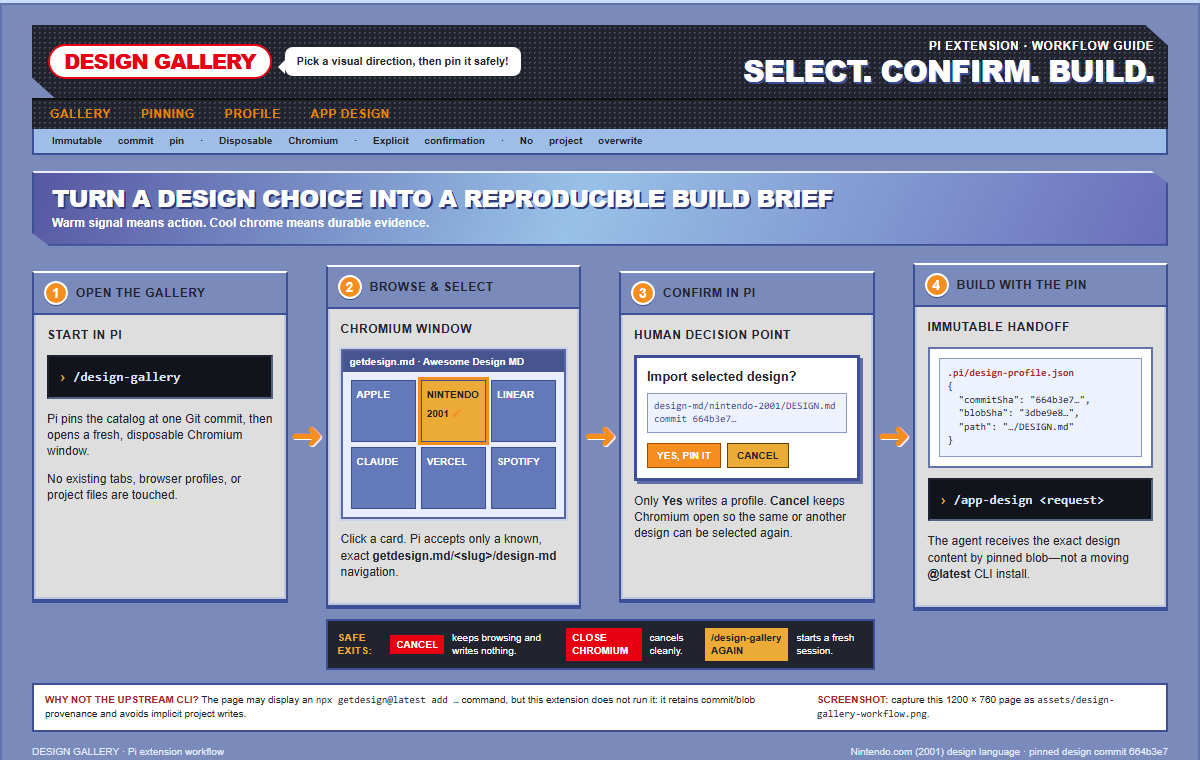
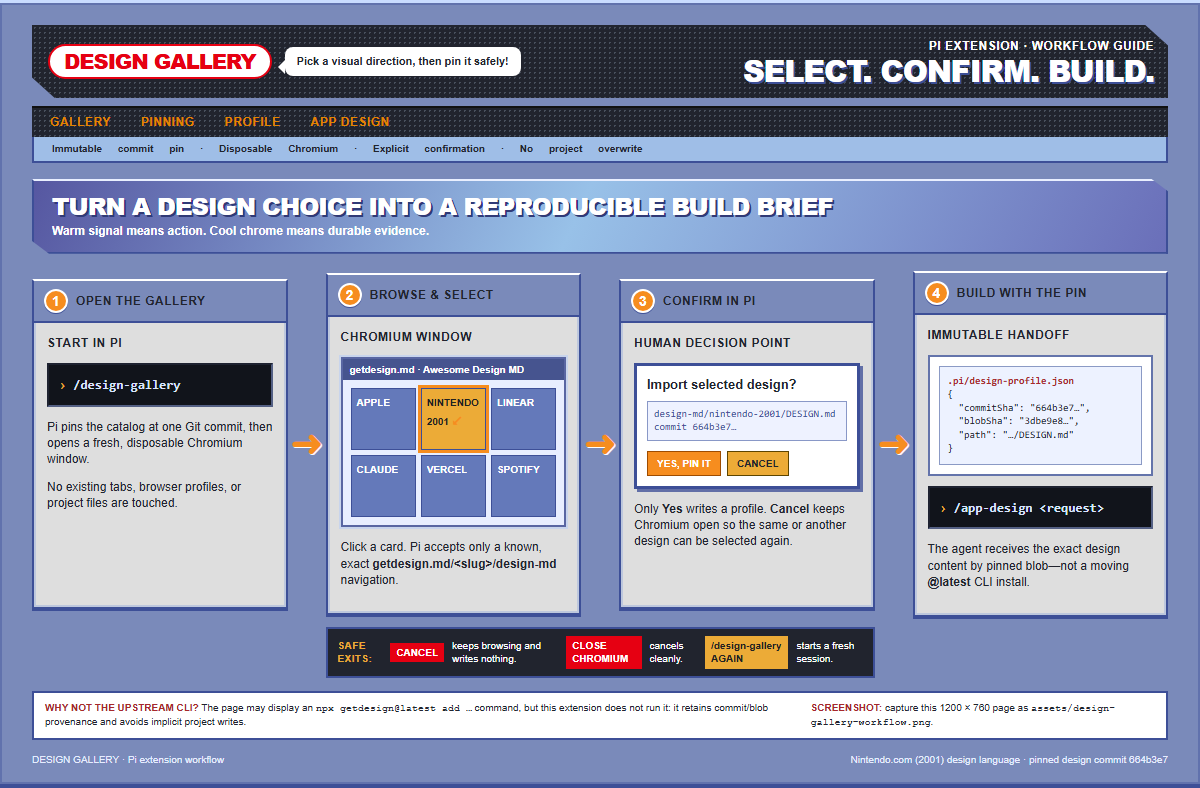
Space design gallery workflow navigation

Changed region(s): [[0.0, 0.3329, 1.0, 1.0], [0.0308, 0.0303, 0.9867, 0.3026], [0.4933, 0.3329, 0.74, 0.7263]]

diff --git a/extensions/design-gallery/assets/design-gallery-workflow.html b/extensions/design-gallery/assets/design-gallery-workflow.html
@@ -19,7 +19,7 @@
   .title { text-align:right; }
   .eyebrow, .step-label, .nav { font-weight:bold; letter-spacing:.55px; text-transform:uppercase; }
   .title h1 { margin:1px 0 0; color:#fff; font:900 30px/1 Arial Black, Arial, sans-serif; letter-spacing:-1px; text-shadow:2px 2px 0 var(--indigo); }
-  .nav { height:31px; display:flex; align-items:center; gap:30px; padding:0 18px; color:var(--gold); border-top:2px solid #111; }
+  .nav { height:31px; display:flex; align-items:center; gap:30px; margin-top:8px; padding:0 18px; color:var(--gold); border-top:2px solid #111; }
   .subnav { padding:5px 18px; background:var(--sky); border:2px solid var(--indigo); border-top:0; font-size:10px; font-weight:bold; word-spacing:13px; }
   .hero { margin-top:16px; padding:13px 18px; color:#fff; background:linear-gradient(115deg,#5657a1,#98c1e8 48%,#6a6fb9); border:2px solid var(--indigo); border-top-color:#e9efff; clip-path:polygon(0 0, 98.5% 0, 100% 17%, 100% 100%, 1.5% 100%, 0 83%); }
   .hero h2 { margin:0; font:900 24px/1 Arial Black, Arial, sans-serif; letter-spacing:-.8px; text-shadow:2px 2px 0 #303a77; }
